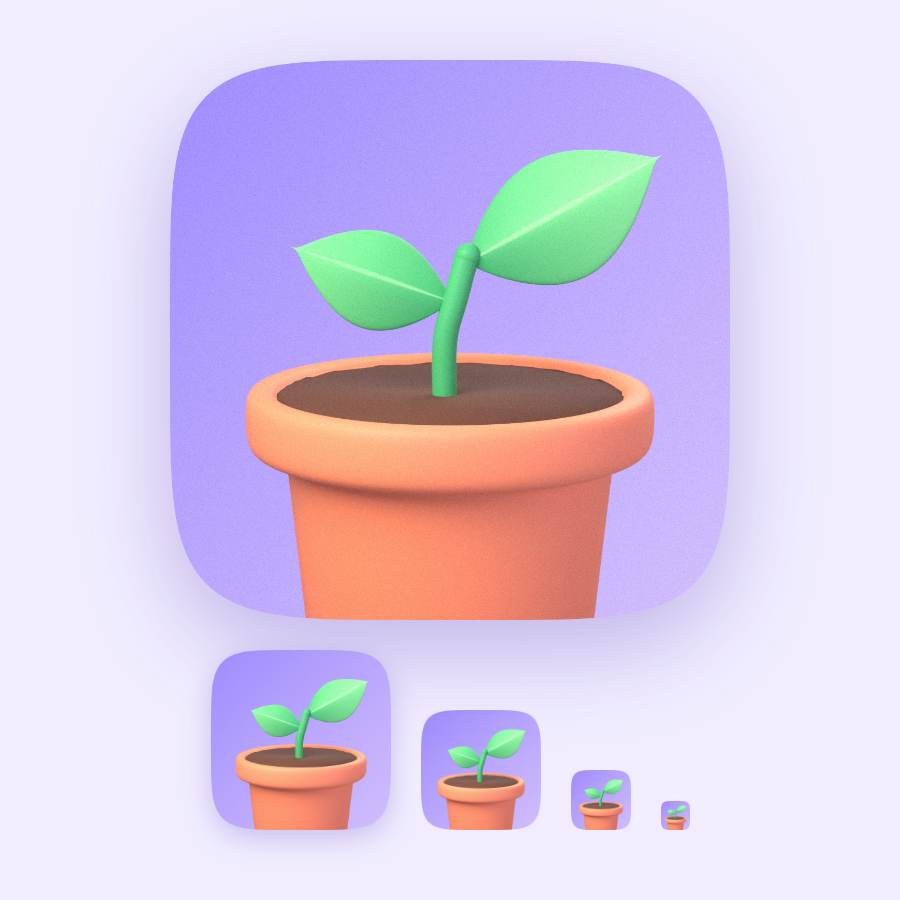
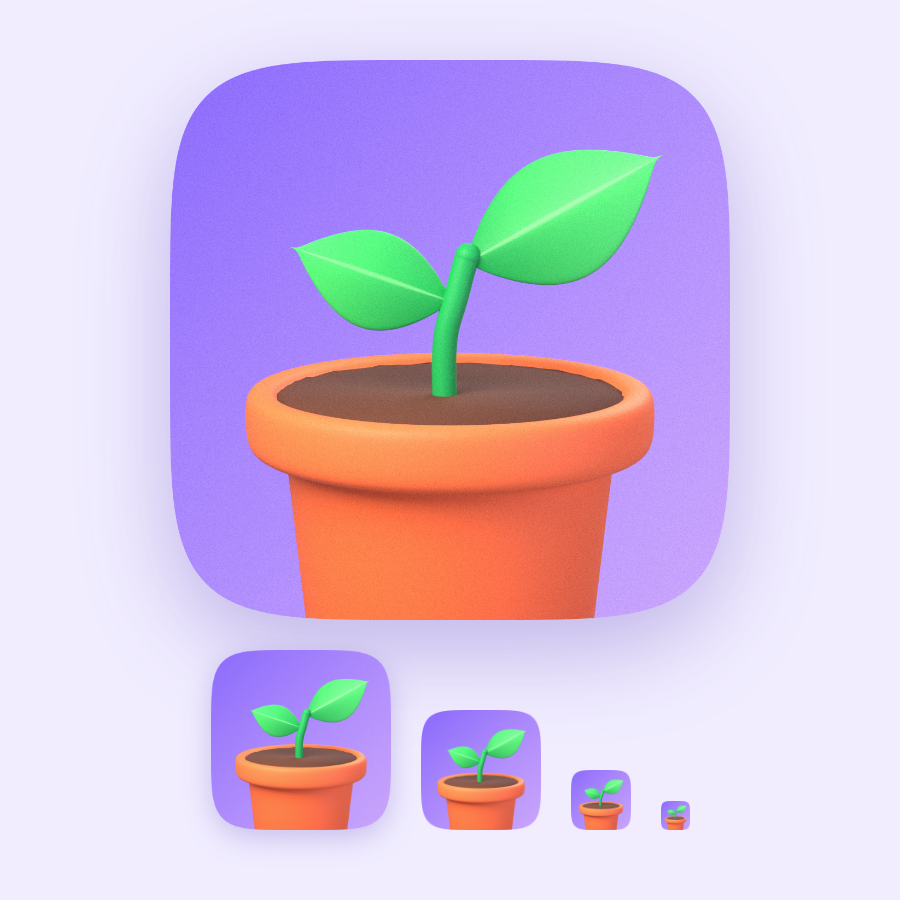
Pousse encore les couleurs du pot 3D
Terre cuite orange vif, verts francs, lilas plus soutenu, et un gain de
saturation de 12 % appliqué après le rendu, avant le grain.

Claude-Session: https://claude.ai/code/session_01PDVjaF1d2UBx4x9v8SHUv3

diff --git a/icones-proposees/pot-3d.py b/icones-proposees/pot-3d.py
@@ -31,7 +31,7 @@ bm.to_mesh(me);bm.free()
 potm=bpy.data.materials.new('terre');potm.use_nodes=True;nt=potm.node_tree;N=nt.nodes;L=nt.links
 bs=N['Principled BSDF'];bs.inputs['Roughness'].default_value=.62;bs.inputs['Coat Weight'].default_value=0;bs.inputs['Subsurface Weight'].default_value=.12;bs.inputs['Subsurface Radius'].default_value=(.3,.15,.1)
 # joues : deux taches roses en coordonnées objet
-tc=N.new('ShaderNodeTexCoord');base=N.new('ShaderNodeRGB');base.outputs[0].default_value=hexc('#FA8D62')
+tc=N.new('ShaderNodeTexCoord');base=N.new('ShaderNodeRGB');base.outputs[0].default_value=hexc('#FF7B45')
 cur=base.outputs[0]
 for x in ():
     d=N.new('ShaderNodeVectorMath');d.operation='DISTANCE';d.inputs[1].default_value=(x*1.02,-0.8,-0.22)
@@ -44,7 +44,7 @@ for x in ():
 sep=N.new('ShaderNodeSeparateXYZ');L.new(tc.outputs['Object'],sep.inputs[0])
 mr=N.new('ShaderNodeMapRange');mr.inputs[1].default_value=-1.5;mr.inputs[2].default_value=0.5;mr.inputs[3].default_value=.45;mr.inputs[4].default_value=0
 L.new(sep.outputs['Z'],mr.inputs[0])
-mx=N.new('ShaderNodeMix');mx.data_type='RGBA';mx.inputs['B'].default_value=hexc('#E0633C')
+mx=N.new('ShaderNodeMix');mx.data_type='RGBA';mx.inputs['B'].default_value=hexc('#EA4F1E')
 L.new(mr.outputs[0],mx.inputs['Factor']);L.new(cur,mx.inputs['A']);L.new(mx.outputs['Result'],bs.inputs['Base Color'])
 pot=obj('pot',me,potm)
 sw=pot.modifiers.new('tour','SCREW');sw.steps=96;sw.render_steps=96;sw.use_merge_vertices=True;sw.use_smooth_shade=True
@@ -56,7 +56,7 @@ soil=bpy.context.object;soil.data.materials.append(mat('terreau','#5E3A2A',rough
 dm=soil.modifiers.new('d','DISPLACE');tx=bpy.data.textures.new('n','CLOUDS');tx.noise_scale=.08;dm.texture=tx;dm.strength=.035
 bpy.ops.object.shade_smooth()
 
-green=mat('tige','#3DB26A',rough=.6,coat=0,sss=.1)
+green=mat('tige','#1FB05A',rough=.6,coat=0,sss=.1)
 # ---- tige
 cu=bpy.data.curves.new('tige','CURVE');cu.dimensions='3D';cu.bevel_depth=.07;cu.bevel_resolution=6;cu.use_fill_caps=True
 sp=cu.splines.new('BEZIER');sp.bezier_points.add(2)
@@ -91,21 +91,21 @@ def leaf(name,L_,W,fold,curl,loc,rot,col):
     # dégradé base → pointe
     ramp=N.new('ShaderNodeValToRGB');ramp.color_ramp.elements[0].color=hexc(col[0]);ramp.color_ramp.elements[1].color=hexc(col[1])
     Lk.new(se.outputs['X'],ramp.inputs[0])
-    mx=N.new('ShaderNodeMix');mx.data_type='RGBA';mx.inputs['B'].default_value=hexc('#A6EBA6')
+    mx=N.new('ShaderNodeMix');mx.data_type='RGBA';mx.inputs['B'].default_value=hexc('#9CF0A0')
     Lk.new(mr.outputs[0],mx.inputs['Factor']);Lk.new(ramp.outputs[0],mx.inputs['A']);Lk.new(mx.outputs['Result'],b.inputs['Base Color'])
     o=obj(name,me,m);o.location=loc;o.rotation_euler=[math.radians(a) for a in rot]
     s=o.modifiers.new('e','SOLIDIFY');s.thickness=.025;s.offset=0;subsurf(o,2)
     return o
-leaf('feuilleD',1.25,.40,.45,.10,(0.10,0.02,1.66),(70,-28,0),('#2FA863','#7EE08E'))
-leaf('feuilleG',0.95,.31,.45,.08,(0.0,0.0,1.44),(-70,-18,180),('#2FA863','#6FD683'))
+leaf('feuilleD',1.25,.40,.45,.10,(0.10,0.02,1.66),(70,-28,0),('#14A34F','#5FE67A'))
+leaf('feuilleG',0.95,.31,.45,.08,(0.0,0.0,1.44),(-70,-18,180),('#14A34F','#52DE70'))
 
 # ---- monde : fond lilas vu par la caméra, lumière douce ailleurs
 w=bpy.data.worlds.new('w');sc.world=w;w.use_nodes=True;nt=w.node_tree;N=nt.nodes;L=nt.links
 bg=N['Background'];tc=N.new('ShaderNodeTexCoord');se=N.new('ShaderNodeSeparateXYZ');L.new(tc.outputs['Window'],se.inputs[0])
 ma=N.new('ShaderNodeMath');ma.operation='ADD';L.new(se.outputs['X'],ma.inputs[0]);mb=N.new('ShaderNodeMath');mb.operation='SUBTRACT';mb.inputs[0].default_value=1;L.new(se.outputs['Y'],mb.inputs[1]);L.new(mb.outputs[0],ma.inputs[1])
 mm=N.new('ShaderNodeMath');mm.operation='MULTIPLY';mm.inputs[1].default_value=.5;L.new(ma.outputs[0],mm.inputs[0])
-ramp=N.new('ShaderNodeValToRGB');e=ramp.color_ramp.elements;e[0].color=hexc('#A08CFF');e[1].color=hexc('#D2BEFF');L.new(mm.outputs[0],ramp.inputs[0])
-amb=N.new('ShaderNodeBackground');amb.inputs[0].default_value=hexc('#E4DAFF');amb.inputs[1].default_value=.45
+ramp=N.new('ShaderNodeValToRGB');e=ramp.color_ramp.elements;e[0].color=hexc('#8A6DFF');e[1].color=hexc('#C9A8FF');L.new(mm.outputs[0],ramp.inputs[0])
+amb=N.new('ShaderNodeBackground');amb.inputs[0].default_value=hexc('#E4DAFF');amb.inputs[1].default_value=.4
 lp=N.new('ShaderNodeLightPath');mix=N.new('ShaderNodeMixShader');bg.inputs[1].default_value=1
 L.new(ramp.outputs[0],bg.inputs[0]);L.new(lp.outputs['Is Camera Ray'],mix.inputs[0]);L.new(amb.outputs[0],mix.inputs[1]);L.new(bg.outputs[0],mix.inputs[2])
 L.new(mix.outputs[0],N['World Output'].inputs[0])
@@ -126,5 +126,6 @@ sc.render.resolution_x=sc.render.resolution_y=1024;sc.view_settings.view_transfo
 sc.render.filepath=OUT;bpy.ops.render.render(write_still=True)
 import numpy as np
 im=bpy.data.images.load(OUT);px=np.array(im.pixels[:],dtype=np.float32).reshape(-1,4)
+lum=(px[:,:3]@np.array([.2126,.7152,.0722],dtype=np.float32))[:,None];px[:,:3]=np.clip(lum+(px[:,:3]-lum)*1.12,0,1)
 rng=np.random.default_rng(7);g=rng.normal(0,.018,(px.shape[0],1)).astype(np.float32)
 px[:,:3]=np.clip(px[:,:3]+g,0,1);im.pixels[:]=px.ravel();im.filepath_raw=OUT;im.file_format='PNG';im.save()
